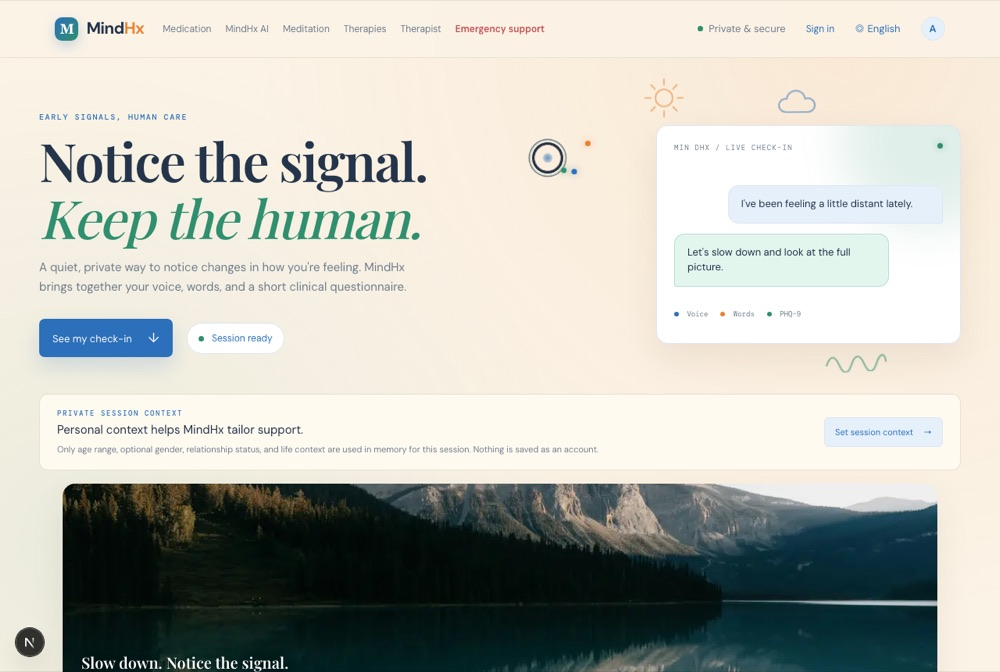
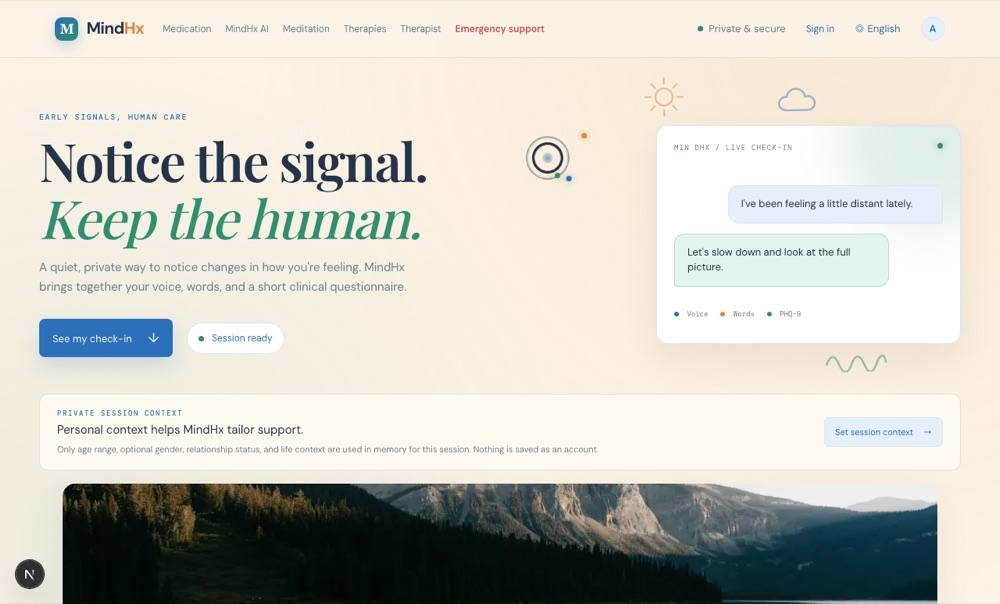
Expand README screenshots to 15 English pages plus 9 Urdu (RTL) pages
Replace the 7-image screenshot section with a fuller gallery covering every
major page (home, results, medication, AI chat, meditation list + two
technique details, therapies list + a therapy detail, therapist directory,
emergency support, brand color system, login, register, and an authenticated
dashboard), plus a matching Urdu section for every page that has a language
toggle, to make the bilingual RTL support visible directly in the README.

Also fixes two hardcoded English nature-banner captions that didn't switch
to Urdu on the home and therapist pages ("Slow down. Notice the signal." /
"Take the next step.") - both now route through each page's bilingual copy
object like every other string on those pages.

diff --git a/src/app/page.tsx b/src/app/page.tsx
@@ -30,10 +30,10 @@ const answerOptions = { English: answerOptionsEn, اردو: answerOptionsUr };
 const k10Options = { English: k10OptionsEn, اردو: k10OptionsUr };
 const copy = {
   English: {
-    eyebrow: "EARLY SIGNALS, HUMAN CARE", title: "Check in with yourself.", intro: "A quiet, private way to notice changes in how you're feeling. MindHx brings together your voice, words, and a short clinical questionnaire.", ready: "Session ready", private: "Private & secure", sound: "How you sound", soundDescription: "Share a short voice note in English or Urdu. We listen for changes in vocal patterns, not the words themselves.", record: "Record a voice note", stop: "Stop recording", listening: "Listening... tap to finish", processing: "Transcribing securely...", recordingHint: "Up to 60 seconds · Nothing is saved", transcriptReady: "Transcript added below", voiceError: "Microphone or transcription unavailable", words: "What you say", wordsDescription: "Write a little about how things have been lately. Be as brief or open as feels right.", placeholder: "I've been feeling...", optional: "Optional", speakUrdu: "Hear this in Urdu", speaking: "Generating Urdu voice...", speechError: "Urdu voice generation unavailable", submitText: "Submit", submittingText: "Analyzing...", textSentiment: "Sentiment read", textSubmitHint: "Sent for analysis only - never saved to a database.", clinical: "Clinical check-in", clinicalDescription: "The PHQ-9 is a validated questionnaire used by healthcare professionals. Think about the last two weeks.", question: "QUESTION", back: "Back", next: "Next question", review: "Review answers", estimate: "LIVE ESTIMATE", picture: "Your combined picture", pictureDescription: "Complete your check-in to see how the signals come together.", seeCheckIn: "See my check-in", disclaimer: "MindHx is a screening and triage aid, not a diagnosis. Your results are a starting point for a conversation with a qualified professional.", modalEyebrow: "YOUR PRIVATE CHECK-IN", modalTitle: "Your signals are ready to review.", modalDescription: "MindHx combines the three signals into an explainable estimate. A professional should interpret this result with you.", modalScore: "estimated signal strength", continue: "Continue to results"
+    eyebrow: "EARLY SIGNALS, HUMAN CARE", title: "Check in with yourself.", intro: "A quiet, private way to notice changes in how you're feeling. MindHx brings together your voice, words, and a short clinical questionnaire.", ready: "Session ready", private: "Private & secure", sound: "How you sound", soundDescription: "Share a short voice note in English or Urdu. We listen for changes in vocal patterns, not the words themselves.", record: "Record a voice note", stop: "Stop recording", listening: "Listening... tap to finish", processing: "Transcribing securely...", recordingHint: "Up to 60 seconds · Nothing is saved", transcriptReady: "Transcript added below", voiceError: "Microphone or transcription unavailable", words: "What you say", wordsDescription: "Write a little about how things have been lately. Be as brief or open as feels right.", placeholder: "I've been feeling...", optional: "Optional", speakUrdu: "Hear this in Urdu", speaking: "Generating Urdu voice...", speechError: "Urdu voice generation unavailable", submitText: "Submit", submittingText: "Analyzing...", textSentiment: "Sentiment read", textSubmitHint: "Sent for analysis only - never saved to a database.", clinical: "Clinical check-in", clinicalDescription: "The PHQ-9 is a validated questionnaire used by healthcare professionals. Think about the last two weeks.", question: "QUESTION", back: "Back", next: "Next question", review: "Review answers", estimate: "LIVE ESTIMATE", picture: "Your combined picture", pictureDescription: "Complete your check-in to see how the signals come together.", seeCheckIn: "See my check-in", disclaimer: "MindHx is a screening and triage aid, not a diagnosis. Your results are a starting point for a conversation with a qualified professional.", modalEyebrow: "YOUR PRIVATE CHECK-IN", modalTitle: "Your signals are ready to review.", modalDescription: "MindHx combines the three signals into an explainable estimate. A professional should interpret this result with you.", modalScore: "estimated signal strength", continue: "Continue to results", bannerCaption: "Slow down. Notice the signal."
   },
   اردو: {
-    eyebrow: "ابتدائی اشارے، انسانی نگہداشت", title: "اپنا حال جانچیں۔", intro: "اپنی کیفیت میں آنے والی تبدیلیوں کو سمجھنے کا ایک پُرسکون اور نجی طریقہ۔ MindHx آپ کی آواز، الفاظ اور مختصر طبی سوالنامے کو یکجا کرتا ہے۔", ready: "سیشن تیار ہے", private: "نجی اور محفوظ", sound: "آپ کی آواز", soundDescription: "انگریزی یا اردو میں ایک مختصر صوتی پیغام ریکارڈ کریں۔ ہم الفاظ کے بجائے آواز کے انداز میں آنے والی تبدیلیوں کو دیکھتے ہیں۔", record: "صوتی پیغام ریکارڈ کریں", stop: "ریکارڈنگ روکیں", listening: "سن رہے ہیں... مکمل کرنے کے لیے دبائیں", processing: "محفوظ طریقے سے متن تیار کیا جا رہا ہے...", recordingHint: "60 سیکنڈ تک · کچھ محفوظ نہیں کیا جاتا", transcriptReady: "متن نیچے شامل کر دیا گیا ہے", voiceError: "مائیکروفون یا متن کی سہولت دستیاب نہیں", words: "آپ کے الفاظ", wordsDescription: "حال ہی میں آپ کیسا محسوس کر رہے ہیں، اس کے بارے میں کچھ لکھیں۔ جتنا مناسب لگے اتنا ہی لکھیں۔", placeholder: "میں محسوس کر رہا/رہی ہوں...", optional: "اختیاری", speakUrdu: "یہ اردو میں سنیں", speaking: "اردو آواز تیار ہو رہی ہے...", speechError: "اردو آواز دستیاب نہیں", submitText: "جمع کریں", submittingText: "تجزیہ ہو رہا ہے...", textSentiment: "جذباتی کیفیت", textSubmitHint: "صرف تجزیے کے لیے بھیجا گیا - کبھی ڈیٹا بیس میں محفوظ نہیں کیا جاتا۔", clinical: "طبی جائزہ", clinicalDescription: "PHQ-9 ایک مستند سوالنامہ ہے جسے ماہرین صحت استعمال کرتے ہیں۔ گزشتہ دو ہفتوں کے بارے میں سوچیں۔", question: "سوال", back: "واپس", next: "اگلا سوال", review: "جوابات کا جائزہ", estimate: "موجودہ اندازہ", picture: "آپ کی مجموعی کیفیت", pictureDescription: "اپنا جائزہ مکمل کریں تاکہ تمام اشارے ایک ساتھ دیکھے جا سکیں۔", seeCheckIn: "میرا جائزہ دیکھیں", disclaimer: "MindHx ایک ابتدائی اسکریننگ اور رہنمائی کا ذریعہ ہے، تشخیص نہیں۔ آپ کے نتائج کسی مستند ماہر سے گفتگو کا آغاز ہیں۔ سوالنامے کا اردو متن اس سیشن کے لیے ترجمہ کیا گیا ہے؛ حتمی الفاظ کے لیے انگریزی نسخہ ملاحظہ کریں۔", modalEyebrow: "آپ کا نجی جائزہ", modalTitle: "آپ کے اشارے جائزے کے لیے تیار ہیں۔", modalDescription: "MindHx تینوں اشاروں کو ایک قابلِ وضاحت اندازے میں یکجا کرتا ہے۔ اس نتیجے کی تشریح کسی ماہر کو آپ کے ساتھ کرنی چاہیے۔", modalScore: "اندازاً سگنل کی شدت", continue: "نتائج کی طرف جائیں"
+    eyebrow: "ابتدائی اشارے، انسانی نگہداشت", title: "اپنا حال جانچیں۔", intro: "اپنی کیفیت میں آنے والی تبدیلیوں کو سمجھنے کا ایک پُرسکون اور نجی طریقہ۔ MindHx آپ کی آواز، الفاظ اور مختصر طبی سوالنامے کو یکجا کرتا ہے۔", ready: "سیشن تیار ہے", private: "نجی اور محفوظ", sound: "آپ کی آواز", soundDescription: "انگریزی یا اردو میں ایک مختصر صوتی پیغام ریکارڈ کریں۔ ہم الفاظ کے بجائے آواز کے انداز میں آنے والی تبدیلیوں کو دیکھتے ہیں۔", record: "صوتی پیغام ریکارڈ کریں", stop: "ریکارڈنگ روکیں", listening: "سن رہے ہیں... مکمل کرنے کے لیے دبائیں", processing: "محفوظ طریقے سے متن تیار کیا جا رہا ہے...", recordingHint: "60 سیکنڈ تک · کچھ محفوظ نہیں کیا جاتا", transcriptReady: "متن نیچے شامل کر دیا گیا ہے", voiceError: "مائیکروفون یا متن کی سہولت دستیاب نہیں", words: "آپ کے الفاظ", wordsDescription: "حال ہی میں آپ کیسا محسوس کر رہے ہیں، اس کے بارے میں کچھ لکھیں۔ جتنا مناسب لگے اتنا ہی لکھیں۔", placeholder: "میں محسوس کر رہا/رہی ہوں...", optional: "اختیاری", speakUrdu: "یہ اردو میں سنیں", speaking: "اردو آواز تیار ہو رہی ہے...", speechError: "اردو آواز دستیاب نہیں", submitText: "جمع کریں", submittingText: "تجزیہ ہو رہا ہے...", textSentiment: "جذباتی کیفیت", textSubmitHint: "صرف تجزیے کے لیے بھیجا گیا - کبھی ڈیٹا بیس میں محفوظ نہیں کیا جاتا۔", clinical: "طبی جائزہ", clinicalDescription: "PHQ-9 ایک مستند سوالنامہ ہے جسے ماہرین صحت استعمال کرتے ہیں۔ گزشتہ دو ہفتوں کے بارے میں سوچیں۔", question: "سوال", back: "واپس", next: "اگلا سوال", review: "جوابات کا جائزہ", estimate: "موجودہ اندازہ", picture: "آپ کی مجموعی کیفیت", pictureDescription: "اپنا جائزہ مکمل کریں تاکہ تمام اشارے ایک ساتھ دیکھے جا سکیں۔", seeCheckIn: "میرا جائزہ دیکھیں", disclaimer: "MindHx ایک ابتدائی اسکریننگ اور رہنمائی کا ذریعہ ہے، تشخیص نہیں۔ آپ کے نتائج کسی مستند ماہر سے گفتگو کا آغاز ہیں۔ سوالنامے کا اردو متن اس سیشن کے لیے ترجمہ کیا گیا ہے؛ حتمی الفاظ کے لیے انگریزی نسخہ ملاحظہ کریں۔", modalEyebrow: "آپ کا نجی جائزہ", modalTitle: "آپ کے اشارے جائزے کے لیے تیار ہیں۔", modalDescription: "MindHx تینوں اشاروں کو ایک قابلِ وضاحت اندازے میں یکجا کرتا ہے۔ اس نتیجے کی تشریح کسی ماہر کو آپ کے ساتھ کرنی چاہیے۔", modalScore: "اندازاً سگنل کی شدت", continue: "نتائج کی طرف جائیں", bannerCaption: "آہستہ چلیں۔ اشارے کو محسوس کریں۔"
   }
 };
 
@@ -271,7 +271,7 @@ export default function Home() {
       <main className="workspace" dir={language === "اردو" ? "rtl" : "ltr"}>
         <section className="intro"><DoodleCloud className="doodle doodle-blue doodle-float" style={{ top: "-18px", right: "14%" }} /><DoodleWave className="doodle doodle-teal doodle-sway" style={{ bottom: "-6px", right: "8%" }} /><DoodleSun className="doodle doodle-orange doodle-float-slow" style={{ top: "-30px", right: "30%" }} /><div className="hero-copy"><div className="signal-orbit" aria-hidden="true"><span className="orbit-ring ring-1" /><span className="orbit-ring ring-2" /><span className="orbit-ring ring-3" /><span className="orbit-core" /><span className="orbit-dot dot-blue" /><span className="orbit-dot dot-orange" /><span className="orbit-dot dot-green" /></div><div className="hero-copy-text"><p className="eyebrow">{text.eyebrow}</p><h1>Notice the signal.<br /><em>Keep the human.</em></h1><p className="intro-copy">{text.intro}</p><div className="hero-actions"><button className="check-in-button hero-action" onClick={() => document.querySelector(".signal-grid")?.scrollIntoView({ behavior: "smooth" })}>{text.seeCheckIn} <span>↓</span></button><span className="status-pill"><span className="pulse" /> {text.ready}</span></div></div></div><div className="conversation-preview"><div className="preview-topline"><span>MIN DHX / LIVE CHECK-IN</span><span className="preview-dot" /></div><div className="preview-bubble patient-bubble">I&apos;ve been feeling a little distant lately.</div><div className="preview-bubble mindhx-bubble">Let&apos;s slow down and look at the full picture.</div><div className="preview-signals"><span><i className="signal-blue" /> Voice</span><span><i className="signal-orange" /> Words</span><span><i className="signal-green" /> PHQ-9</span></div></div></section>
         <section className="profile-strip"><div><p className="card-kicker">PRIVATE SESSION CONTEXT</p><h2>{sessionToken ? "Your context is ready for this session." : "Personal context helps MindHx tailor support."}</h2><p>Only age range, optional gender, relationship status, and life context are used in memory for this session. Nothing is saved as an account.</p></div><button className="profile-button" onClick={() => setShowProfile(true)}>{sessionToken ? "Edit context" : "Set session context"} <span>→</span></button></section>
-        <NatureBanner {...naturePhotos.mountainLake} caption="Slow down. Notice the signal." />
+        <NatureBanner {...naturePhotos.mountainLake} caption={text.bannerCaption} />
         <div className="signal-grid">
           <article className="signal-card"><div className="card-heading"><span className="icon-circle voice-icon">◖</span><div><p className="card-kicker">SIGNAL 01</p><h2>{text.sound}</h2></div><span className="ready-label">{text.ready}</span></div><p className="card-description">{text.soundDescription}</p><button className={`record-button ${recording ? "recording" : ""}`} onClick={handleVoiceToggle} disabled={transcribing}><span className="record-icon" />{transcribing ? text.processing : recording ? text.stop : text.record}</button><span className="microcopy">{voiceError || (transcript ? text.transcriptReady : recording ? text.listening : text.recordingHint)}</span><div className={`waveform ${recording ? "waveform-live" : ""}`} aria-hidden="true">{Array.from({ length: 34 }, (_, index) => <i key={index} style={{ height: `${12 + ((index * 17) % 29)}px`, animationDelay: `${(index % 9) * 0.09}s` }} />)}</div>{transcript && <p className="voice-transcript">{transcript}</p>}</article>
           <article className="signal-card"><div className="card-heading"><span className="icon-circle words-icon">✎</span><div><p className="card-kicker">SIGNAL 02</p><h2>{text.words}</h2></div><span className="ready-label">{text.ready}</span></div><p className="card-description">{text.wordsDescription}</p><textarea value={typedText} onChange={(event) => setTypedText(event.target.value)} placeholder={text.placeholder} aria-label={text.wordsDescription} /><div className="text-footer"><span>{text.optional}</span><span>{typedText.length} / 500</span></div><div className="text-actions"><button className="check-in-button text-submit-button" onClick={handleSubmitText} disabled={textSubmitting || !typedText.trim()}>{textSubmitting ? text.submittingText : text.submitText}</button><button className="speech-button" onClick={handleUrduSpeech} disabled={speaking || language !== "اردو" || !(`${transcript}\n${typedText}`.trim())}>{speaking ? text.speaking : text.speakUrdu}</button></div><span className="microcopy">{text.textSubmitHint}</span>{textSubmitResult && <p className="text-submit-result"><b>{text.textSentiment}:</b> {textSubmitResult.sentiment}</p>}{textSubmitError && <span className="microcopy">{textSubmitError}</span>}{voiceError && <span className="microcopy">{voiceError}</span>}</article>

diff --git a/src/app/therapist/page.tsx b/src/app/therapist/page.tsx
@@ -41,6 +41,7 @@ const copy = {
     psychologists: "Psychologists",
     visit: "Visit",
     findDisclaimer: "MindHx does not verify real-time availability, fees, or credentials for any listing above. Confirm details directly with the provider before booking.",
+    bannerCaption: "Take the next step.",
   },
   اردو: {
     eyebrow: "05 / پیشہ ورانہ ریفرل",
@@ -67,6 +68,7 @@ const copy = {
     psychologists: "ماہرینِ نفسیات",
     visit: "دیکھیں",
     findDisclaimer: "MindHx مذکورہ بالا کسی بھی فہرست کی حقیقی وقت کی دستیابی، فیس، یا اسناد کی تصدیق نہیں کرتا۔ بکنگ سے پہلے تفصیلات براہ راست فراہم کنندہ سے تصدیق کریں۔",
+    bannerCaption: "اگلا قدم اٹھائیں۔",
   },
 };
 
@@ -89,7 +91,7 @@ export default function TherapistPage() {
         <h1>{text.titleLine1}<br /><em>{text.titleLine2}</em></h1>
         <p>{text.intro}</p>
       </section>
-      <NatureBanner {...naturePhotos.forestBridge} caption="Take the next step." />
+      <NatureBanner {...naturePhotos.forestBridge} caption={text.bannerCaption} />
       <section className="therapist-contact">
         <div>
           <p className="card-kicker">{text.whatToSay}</p>

diff --git a/README.md b/README.md
@@ -4,16 +4,43 @@ MindHx is an early-detection mental-health **triage aid**, not a diagnostic tool
 
 ## Screenshots
 
+Every page supports a full English ⇄ Urdu (RTL) toggle, sourced from the same bilingual copy object per page — not a separate translated build.
+
+### English
+
 | | |
 |---|---|
-| **Check-in** — voice, text, and PHQ-9/GAD-7/K10 in one flow | **MindHx AI** — grounded, safety-gated chat |
-| ![Home / check-in](docs/screenshots/home.jpg) | ![MindHx AI chat](docs/screenshots/ai-chat.jpg) |
-| **Meditation technique** — step-by-step 3D icons | **Therapy reference** — step-by-step 3D icons |
-| ![Meditation technique detail](docs/screenshots/meditation-technique.jpg) | ![Therapy detail](docs/screenshots/therapy-detail.jpg) |
-| **Therapist directory** — verified Pakistan providers | **Emergency support** |
-| ![Therapist directory](docs/screenshots/therapist-directory.jpg) | ![Emergency support](docs/screenshots/emergency-support.jpg) |
-| **Brand / color system** | |
-| ![Brand color system](docs/screenshots/brand-colors.jpg) | |
+| **Check-in** — voice, text, and PHQ-9/GAD-7/K10 in one flow | **Results** — explainable per-signal attribution |
+| ![Home / check-in](docs/screenshots/home.jpg) | ![Results](docs/screenshots/results.jpg) |
+| **Medication reference** | **MindHx AI** — grounded, safety-gated chat |
+| ![Medication reference](docs/screenshots/medication.jpg) | ![MindHx AI chat](docs/screenshots/ai.jpg) |
+| **Meditation techniques** — library | **5-4-3-2-1 grounding** — step-by-step 3D icons |
+| ![Meditation techniques](docs/screenshots/meditation-list.jpg) | ![Grounding technique detail](docs/screenshots/meditation-grounding.jpg) |
+| **Box breathing** — step-by-step 3D icons | **Therapies** — library |
+| ![Box breathing detail](docs/screenshots/meditation-box.jpg) | ![Therapies list](docs/screenshots/therapies-list.jpg) |
+| **CBT** — step-by-step 3D icons | **Therapist directory** — verified Pakistan providers |
+| ![CBT therapy detail](docs/screenshots/therapy-cbt.jpg) | ![Therapist directory](docs/screenshots/therapist.jpg) |
+| **Emergency support** | **Brand / color system** |
+| ![Emergency support](docs/screenshots/emergency.jpg) | ![Brand color system](docs/screenshots/brand.jpg) |
+| **Sign in** | **Create account** |
+| ![Sign in](docs/screenshots/login.jpg) | ![Create account](docs/screenshots/register.jpg) |
+| **Dashboard** — saved check-in history (score/band/themes only, never a transcript) | |
+| ![Dashboard](docs/screenshots/dashboard.jpg) | |
+
+### اردو (Urdu, RTL)
+
+| | |
+|---|---|
+| **چیک ان** | **ادویات کی معلومات** |
+| ![Home in Urdu](docs/screenshots/ur/home.jpg) | ![Medication in Urdu](docs/screenshots/ur/medication.jpg) |
+| **MindHx AI** | **مراقبے کی تکنیکیں** |
+| ![AI chat in Urdu](docs/screenshots/ur/ai.jpg) | ![Meditation list in Urdu](docs/screenshots/ur/meditation-list.jpg) |
+| **5-4-3-2-1 گراؤنڈنگ** | **تھراپیز** |
+| ![Grounding technique in Urdu](docs/screenshots/ur/meditation-grounding.jpg) | ![Therapies list in Urdu](docs/screenshots/ur/therapies-list.jpg) |
+| **سی بی ٹی** | **معالج تلاش کریں** |
+| ![CBT in Urdu](docs/screenshots/ur/therapy-cbt.jpg) | ![Therapist directory in Urdu](docs/screenshots/ur/therapist.jpg) |
+| **فوری مدد** | |
+| ![Emergency support in Urdu](docs/screenshots/ur/emergency.jpg) | |
 
 ## Objective
 
